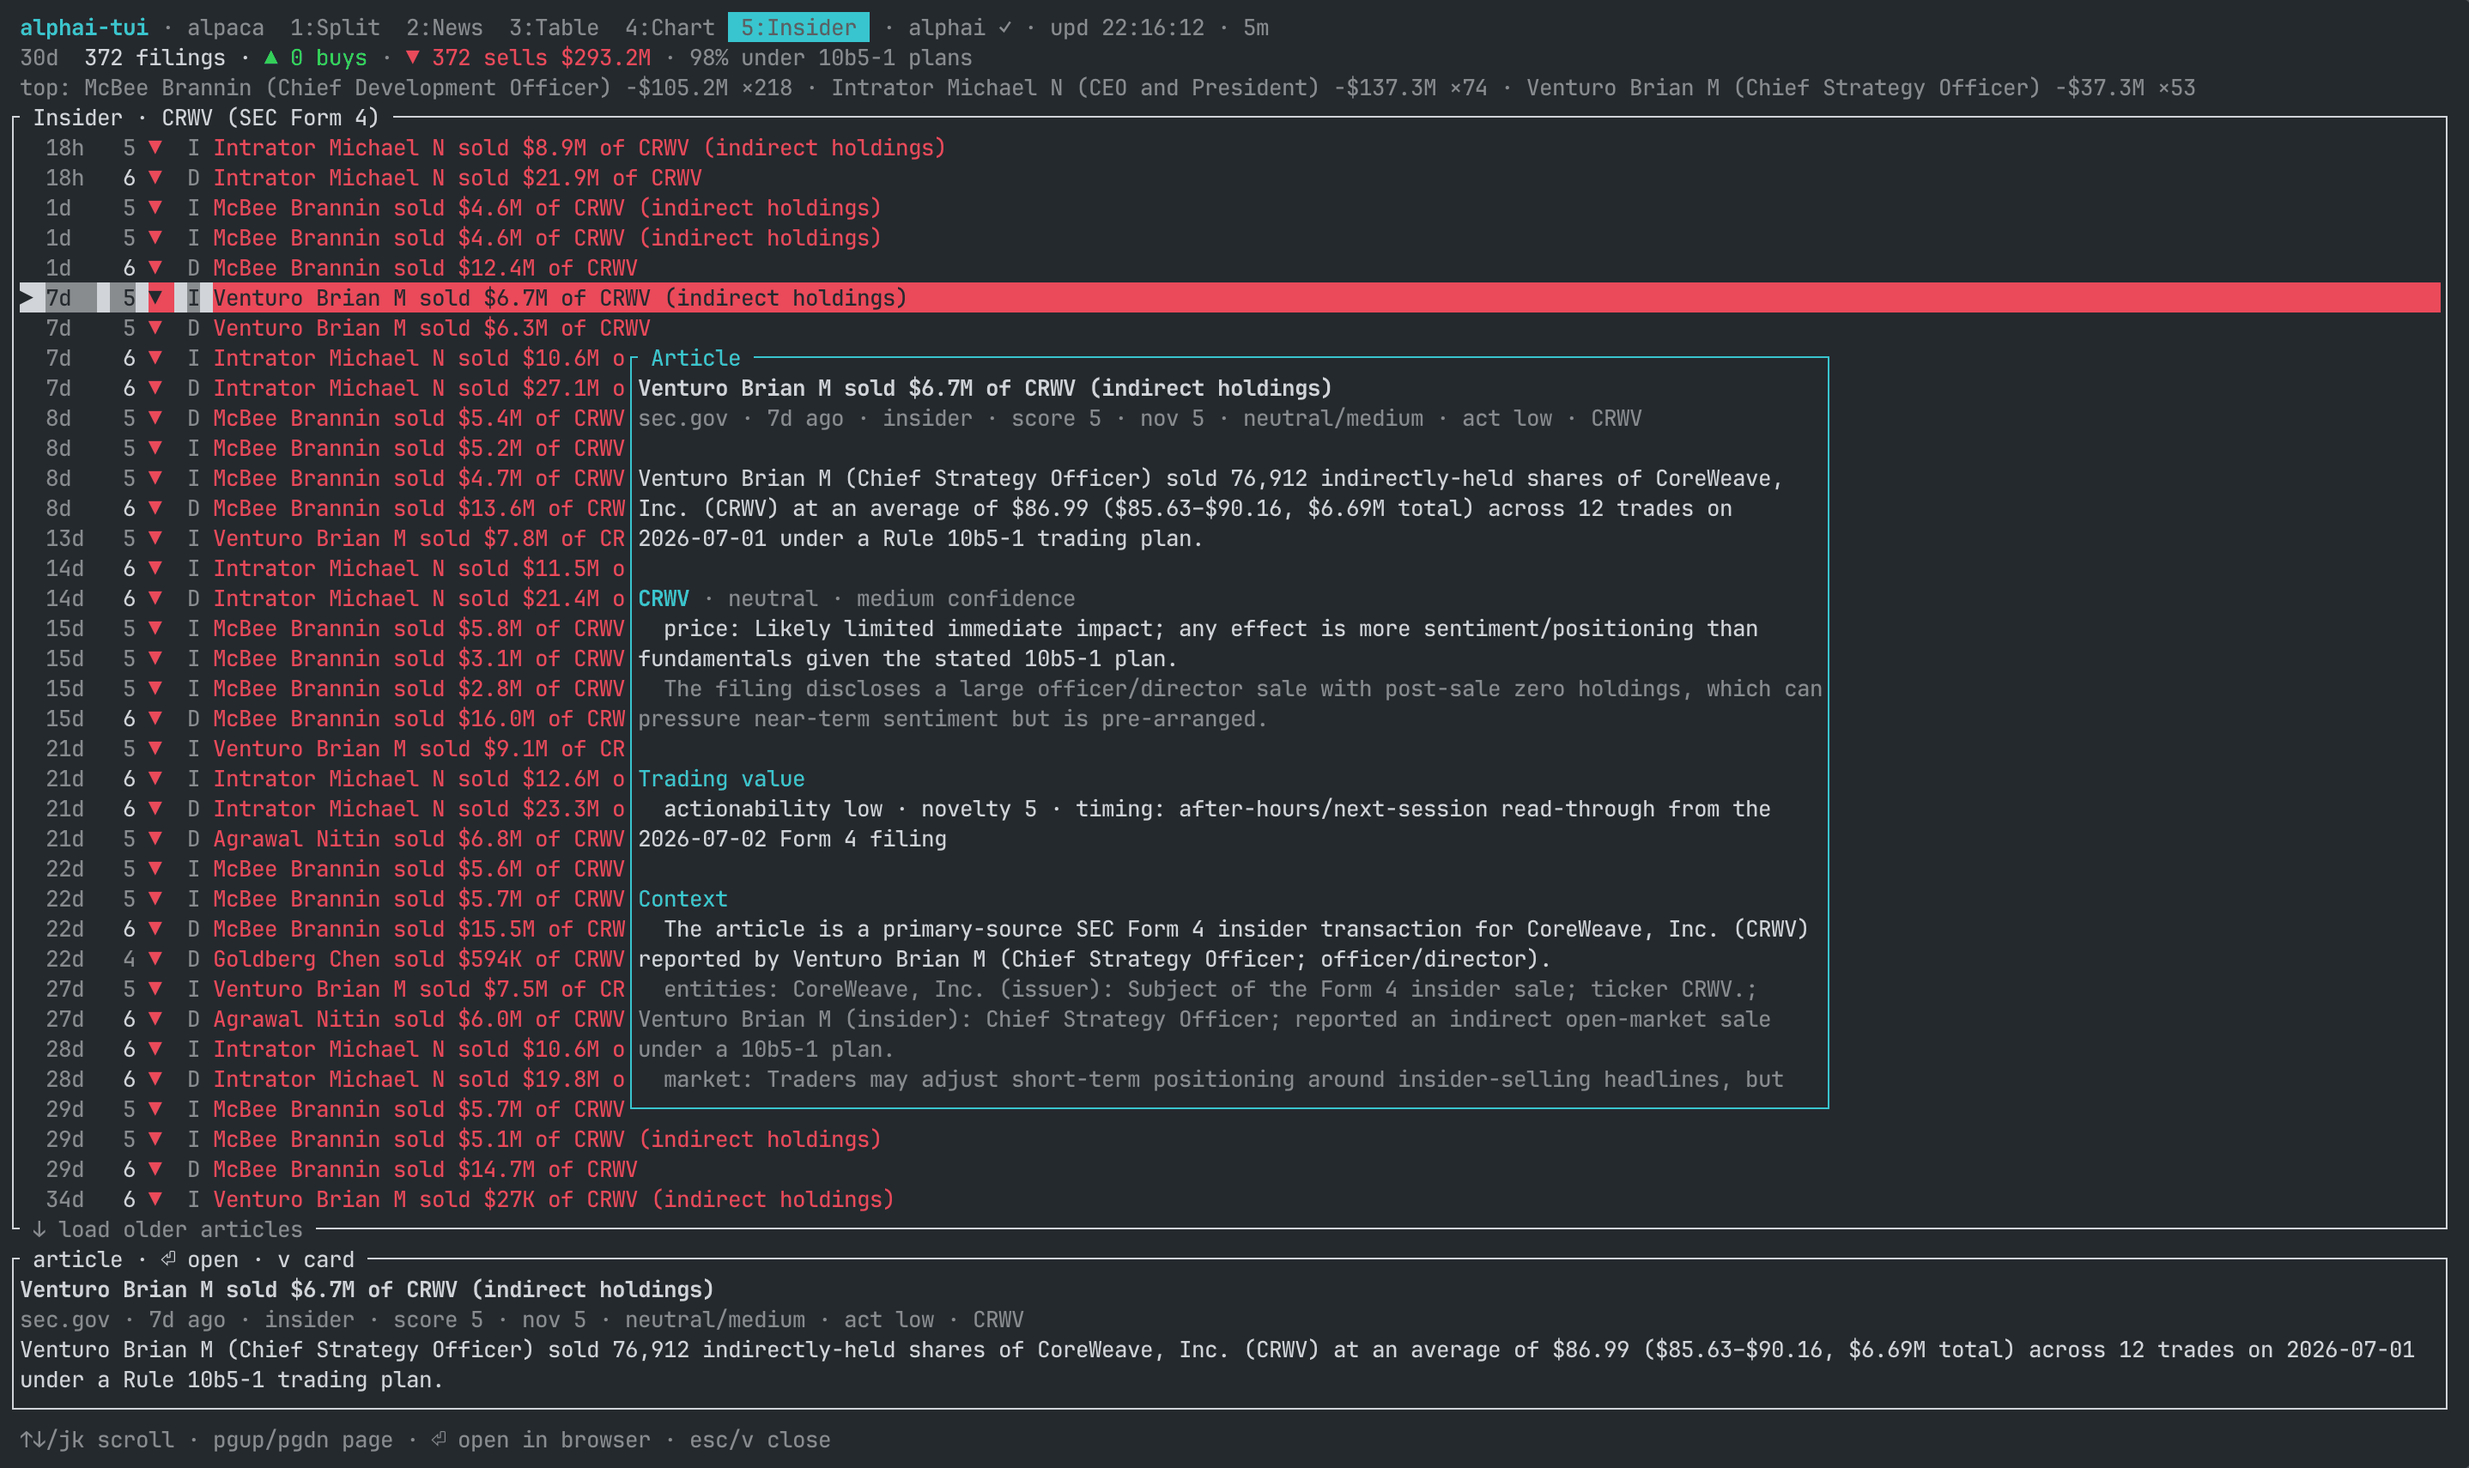
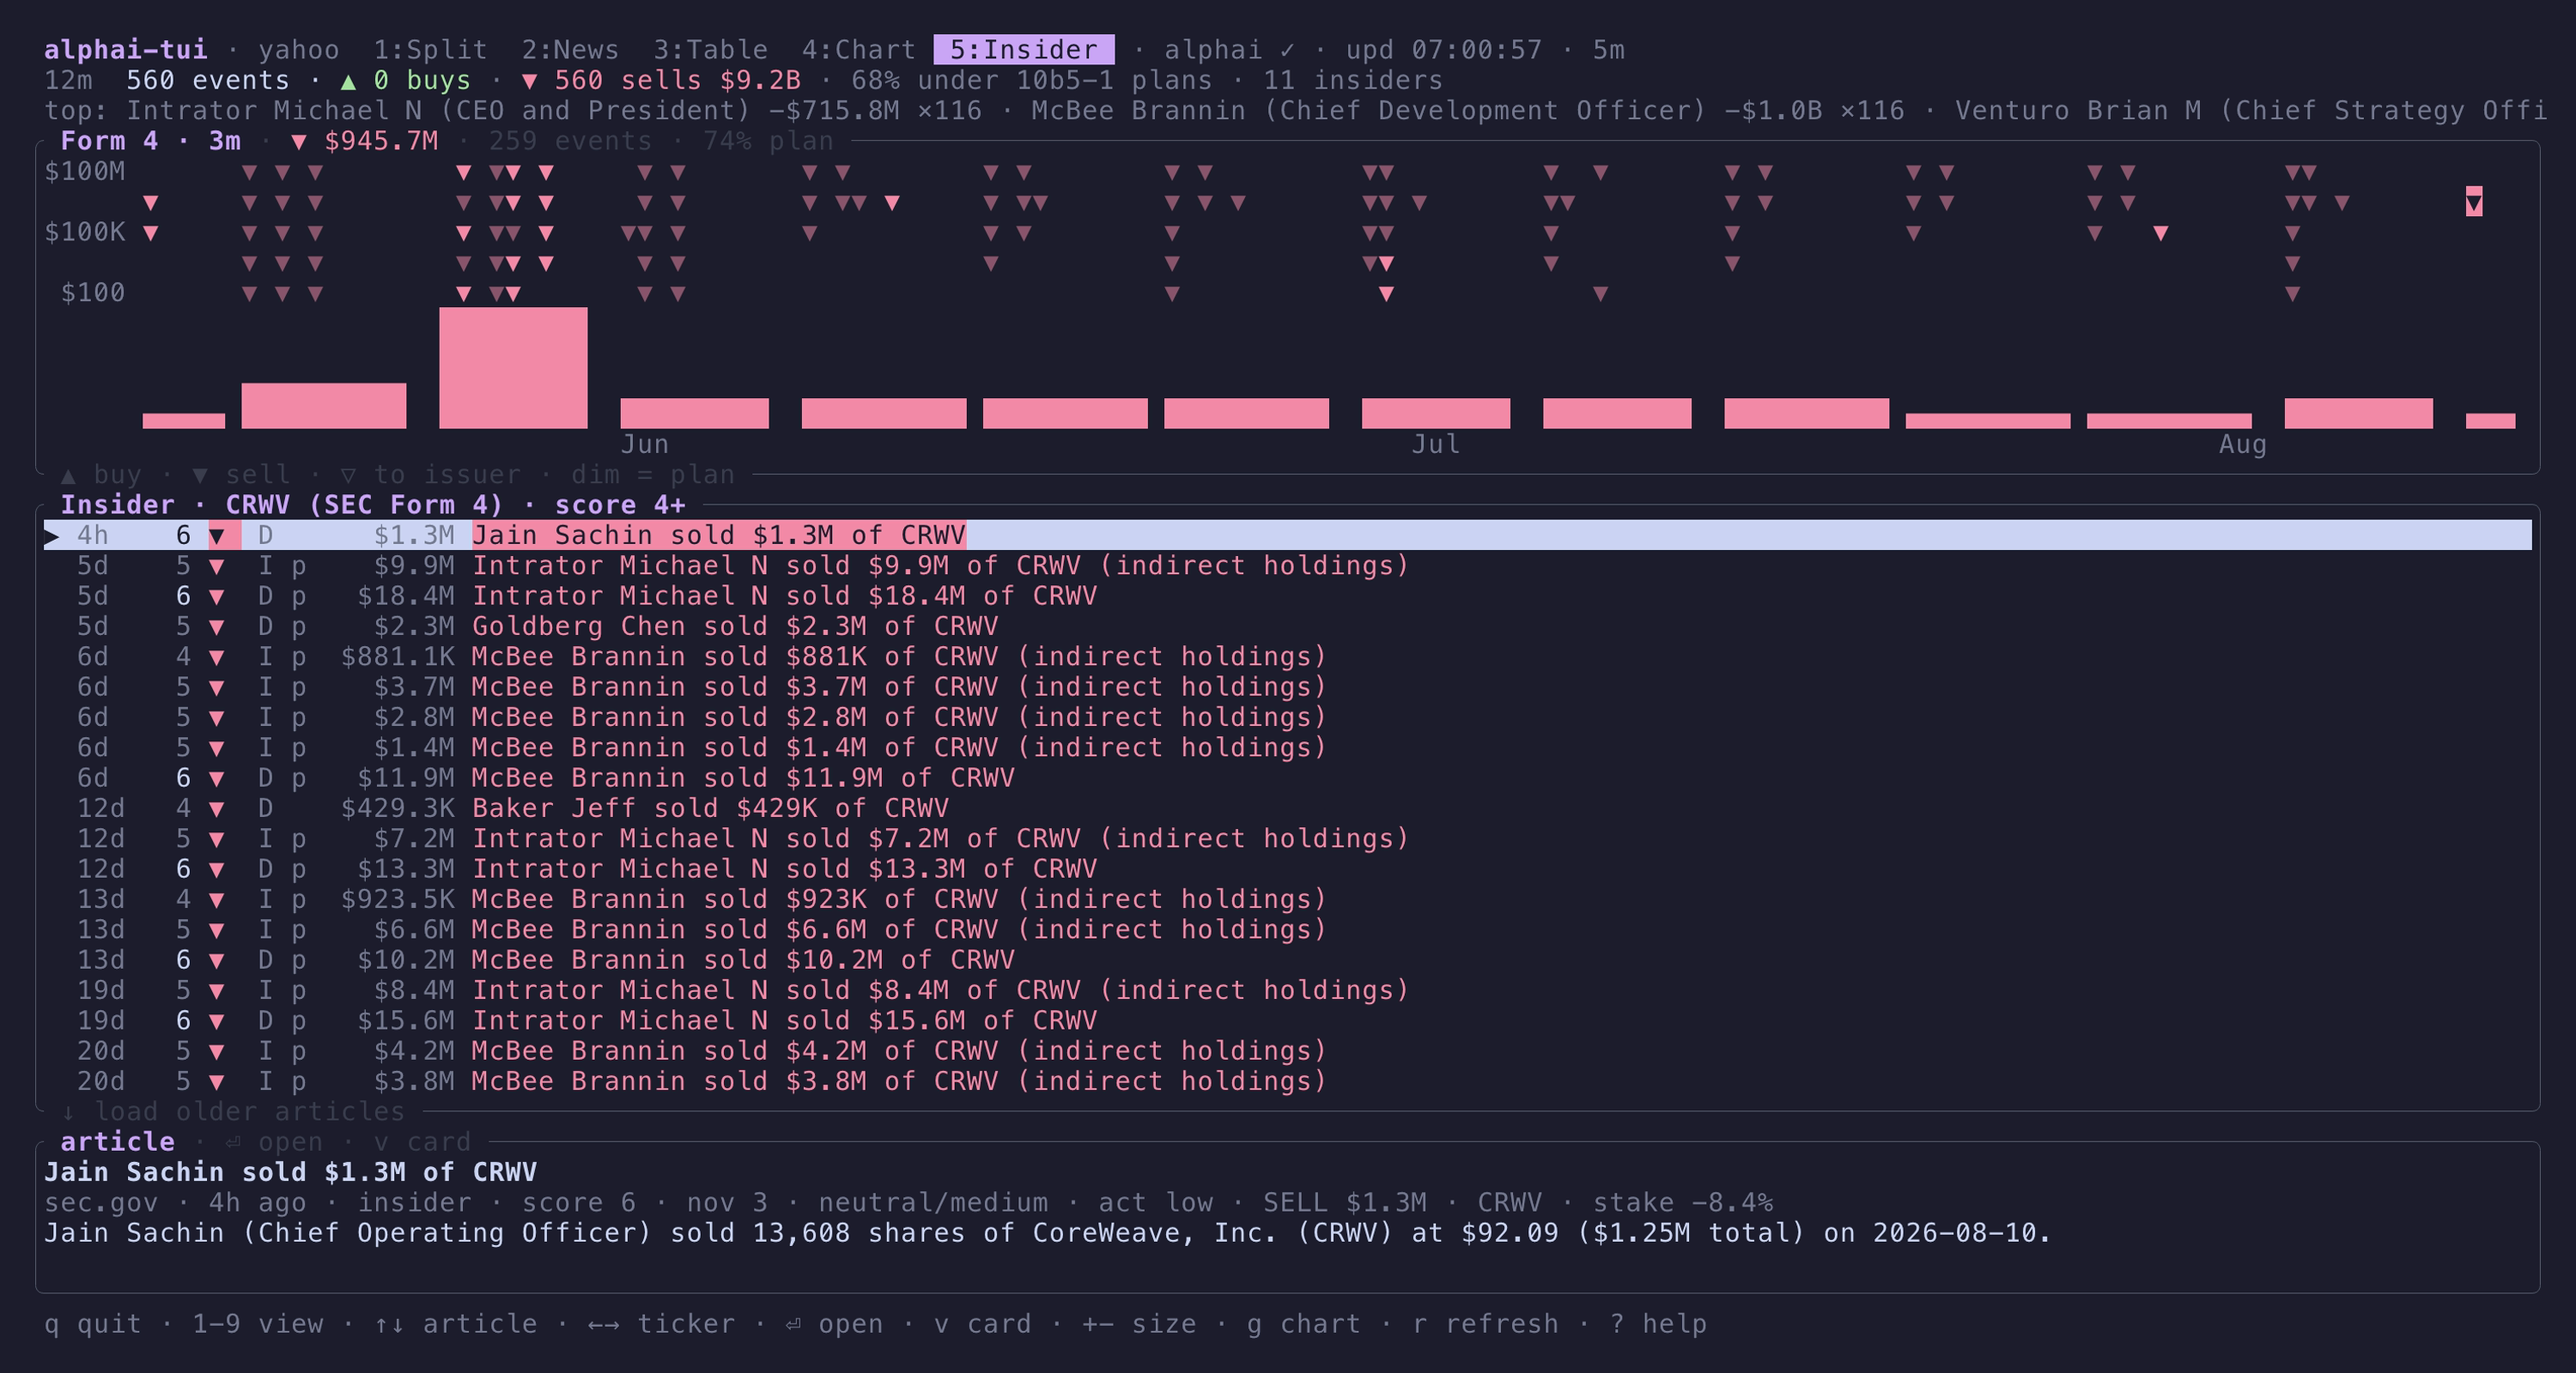
docs: reshoot the insider view with the trades chart
The screenshot predates the Form 4 chart panel; the new frame shows the
log-scale scatter with dimmed 10b5-1 marks, the weekly dollar bars, the
inverted mark of the selected filing and the stake extras in the detail
pane, on live CRWV data in catppuccin mocha.

Claude-Session: https://claude.ai/code/session_01HBAoMraKygsSN4KMMtb9ud

Changed region(s): [[0.0, 0.0, 0.9903, 1.0], [0.8046, 0.125, 0.8355, 0.1562], [0.5261, 0.125, 0.557, 0.1562]]

diff --git a/README.md b/README.md
@@ -88,7 +88,7 @@ Built in Rust with [ratatui](https://ratatui.rs).
   $10M+ trades). The stream pages like the news feed: down on the last row
   loads more.
 
-  ![alphai-tui insider view: 30-day Form 4 rollup with top insiders above the filing stream, article card open on a 10b5-1 plan sale](https://raw.githubusercontent.com/makeev/alphai-tui/main/assets/insider.png)
+  ![alphai-tui insider view: the Form 4 trades chart, a log-scale scatter of sales over weekly dollar bars, above the filing stream with the 12-month rollup on top](https://raw.githubusercontent.com/makeev/alphai-tui/main/assets/insider.png)
 
 - In-app settings (`s`): pick the price source, paste API keys once, set
   the poll interval (applies immediately) and choose where Enter opens
